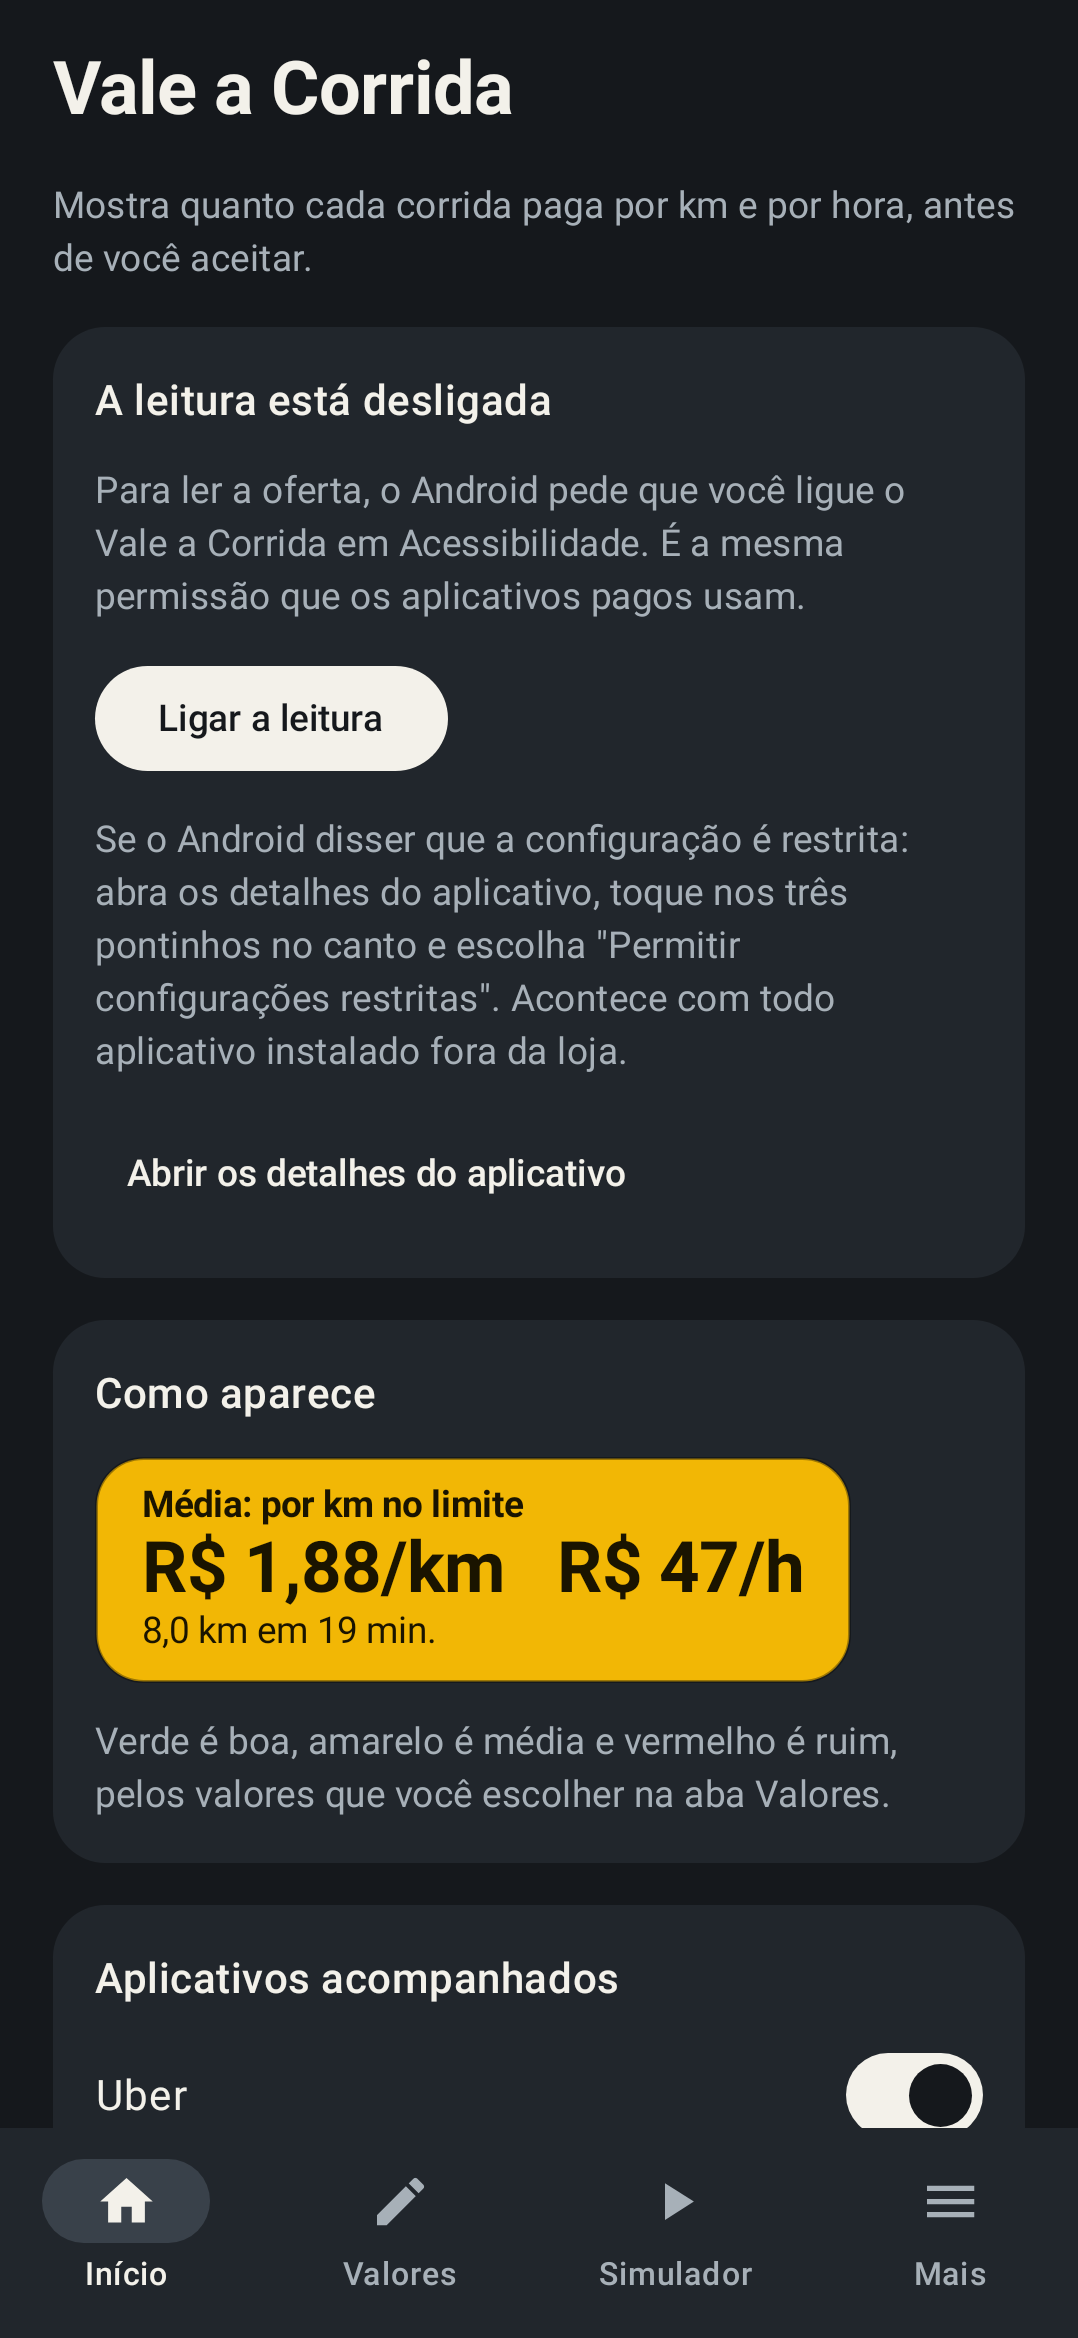
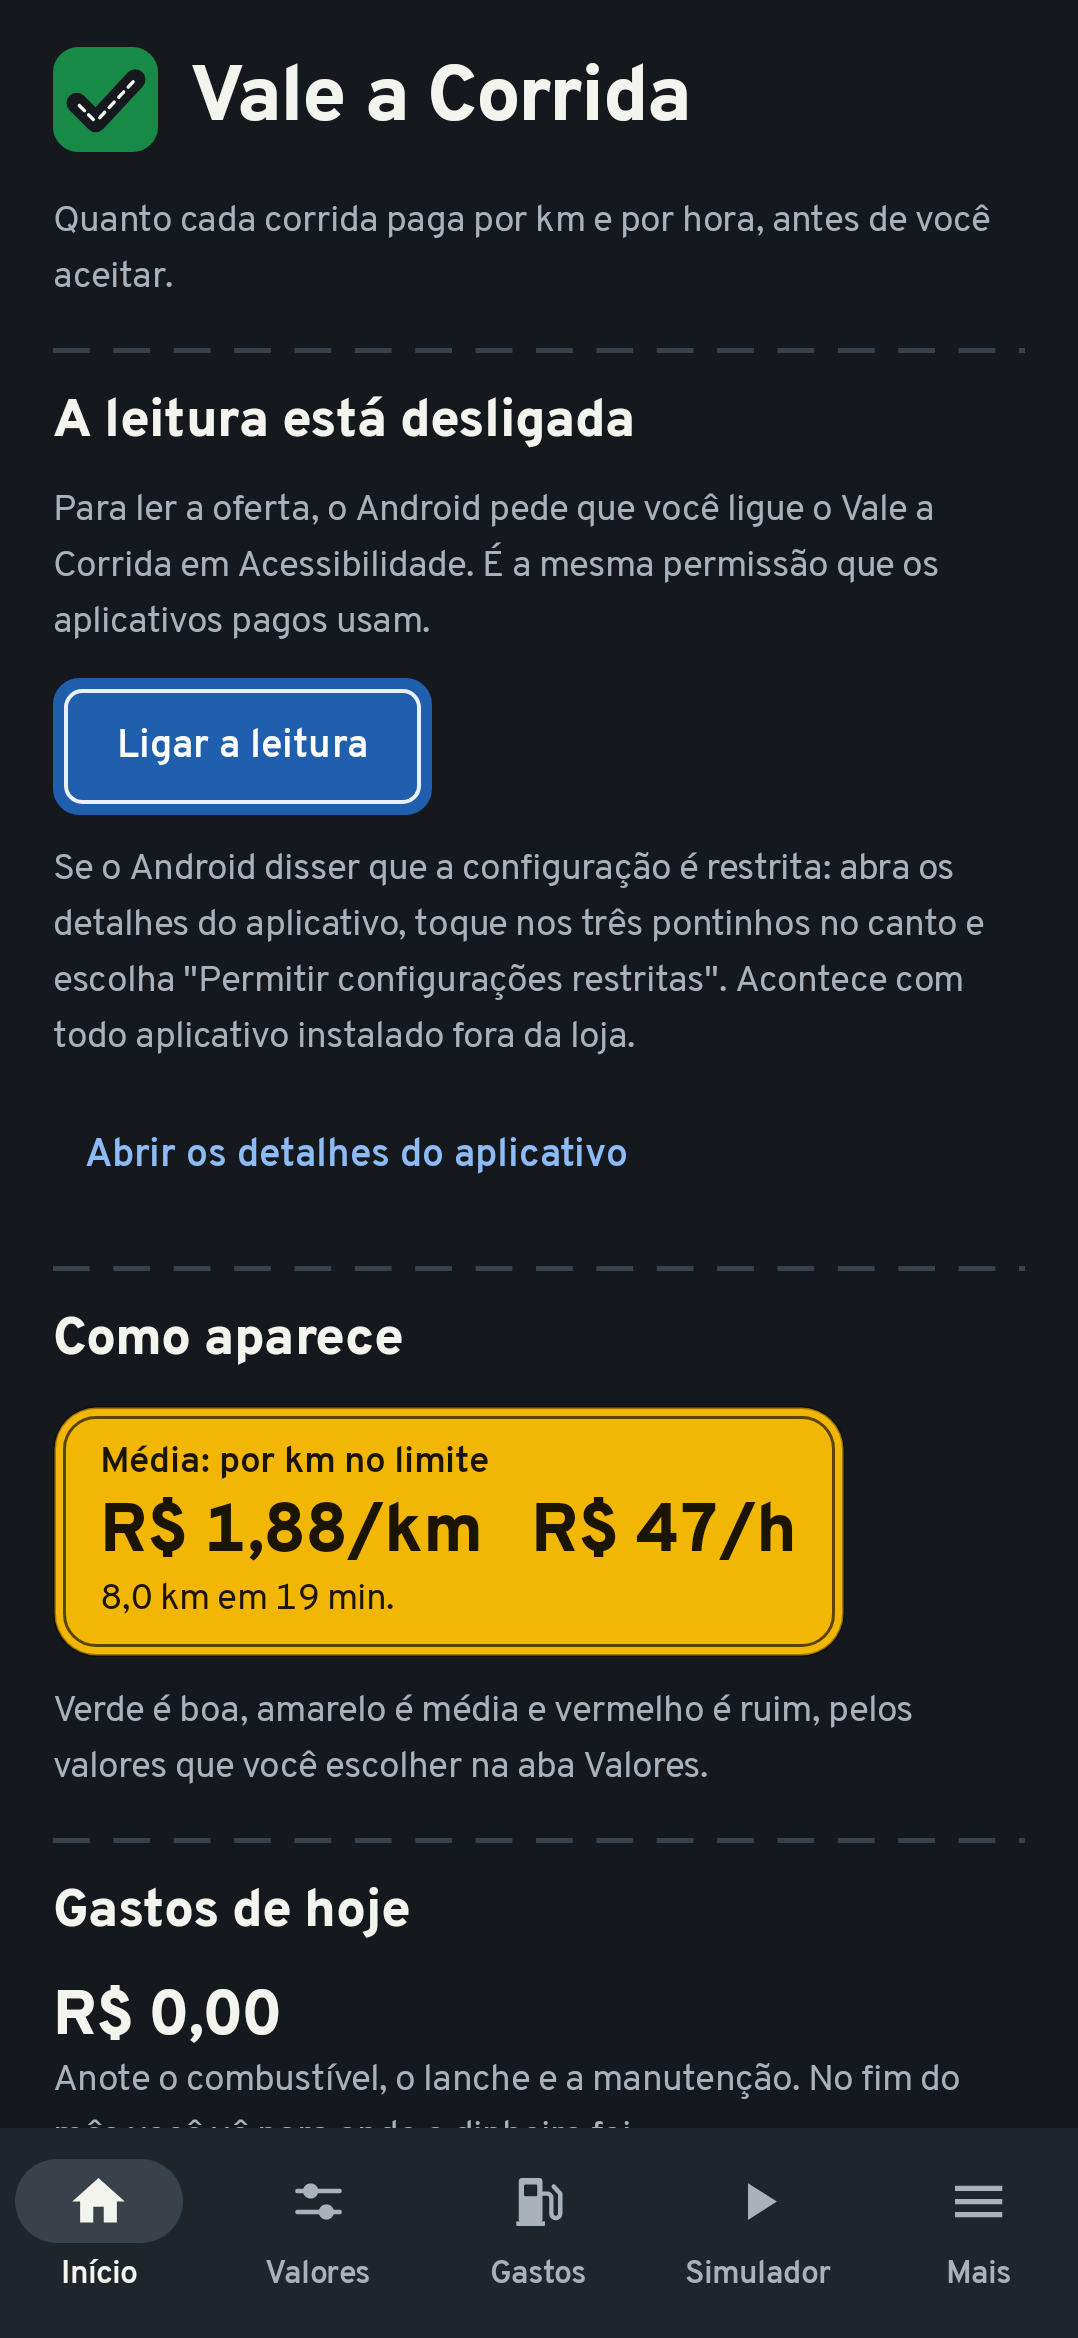
Versao 0.2.0: documentacao e telas

diff --git a/README.md b/README.md
@@ -1,3 +1,5 @@
+<img src="docs/icone.png" width="88" align="right" alt="Ícone do Vale a Corrida: uma estrada em forma de certo">
+
 # Vale a Corrida
 
 Aplicativo Android, de código aberto, para motoristas de aplicativo. Quando chega uma oferta de
@@ -5,22 +7,29 @@ corrida na Uber, na 99 ou no inDrive, ele lê a tela e mostra por cima, antes de
 **quanto a corrida paga por km e por hora**, em verde, amarelo ou vermelho, segundo os valores que
 você mesmo escolheu.
 
+Ele também guarda **os gastos do trabalho** (combustível, lanche, manutenção) e, no fim do mês,
+mostra para onde o dinheiro foi.
+
 Já existem aplicativos que fazem isso, pagos. Este é gratuito, e o código está aqui para qualquer
 pessoa conferir o que ele faz com a permissão que recebe.
 
 <p>
-  <img src="docs/telas/inicio.png" width="270" alt="Tela inicial, com o cartão de exemplo">
-  <img src="docs/telas/simulador.png" width="270" alt="Simulador com uma oferta de mentira">
+  <img src="docs/telas/inicio.png" width="200" alt="Tela inicial, com o cartão de exemplo">
+  <img src="docs/telas/simulador.png" width="200" alt="Simulador com uma oferta de mentira">
+  <img src="docs/telas/gastos.png" width="200" alt="Gastos do mês, com as placas para escolher o tipo de gasto">
+  <img src="docs/telas/relatorio.png" width="200" alt="Relatório do mês: quanto cada tipo de gasto pesou">
 </p>
 
 ## Estado do projeto
 
-Versão 0.1, a primeira. O que foi conferido e o que não foi:
+Versão 0.2. O que foi conferido e o que não foi:
 
-- **Conferido:** o leitor de ofertas e as contas, com 45 testes automáticos; as telas, desenhadas
-  em computador e olhadas uma a uma; o APK, que compila, sai assinado e sem permissão de internet.
-- **Ainda não conferido:** o aplicativo rodando num celular, e a leitura das ofertas de verdade
-  da Uber, da 99 e do inDrive. Os formatos de oferta dos testes foram escritos de memória.
+- **Conferido:** o leitor de ofertas, as contas e o relatório de gastos, com 69 testes
+  automáticos; as telas, desenhadas em computador e olhadas uma a uma; o APK, que compila, sai
+  assinado e sem permissão de internet.
+- **Ainda não conferido:** a leitura das ofertas de verdade da Uber, da 99 e do inDrive. A
+  versão 0.1 já foi instalada num celular, mas ainda não passou por uma corrida real. Os formatos
+  de oferta dos testes foram escritos de memória.
 
 Se você instalar e o cartão não aparecer, isso é esperado nesta fase, e é exatamente o aviso que
 o projeto precisa: veja [Como ajudar](#como-ajudar).
@@ -33,6 +42,10 @@ o projeto precisa: veja [Como ajudar](#como-ajudar).
 - Aceita limites: valor mínimo da corrida, distância máxima até o passageiro, nota mínima.
 - Se você informar o seu custo por km, mostra também quanto sobra.
 - Tem um simulador, para ver o cartão funcionando sem estar online.
+- Guarda os gastos do trabalho, por tipo: combustível, alimentação, manutenção, lavagem, pedágio
+  e vaga, aluguel ou parcela do carro, seguro e impostos, celular e internet.
+- Fecha o mês num relatório: o total, quanto cada tipo pesou, a média nos dias com gasto, o dia
+  mais caro e a comparação com o mês anterior. Dá para compartilhar como texto.
 
 O que ele **não** faz: não aceita nem recusa corridas, e não toca na tela por você.
 
@@ -42,6 +55,8 @@ O que ele **não** faz: não aceita nem recusa corridas, e não toca na tela por
   Nada sai do aparelho. Dá para conferir no `AndroidManifest.xml` e no APK.
 - Só lê a tela enquanto a Uber, a 99 ou o inDrive estão abertos, e só os que você deixar ligados.
 - Guardar leituras para diagnóstico é opcional, vem desligado e fica só no aparelho.
+- Os gastos anotados ficam num arquivo do próprio aparelho. Desinstalar o aplicativo apaga esse
+  arquivo: compartilhe o relatório do mês se quiser guardar.
 
 ## Instalar
 
@@ -57,6 +72,10 @@ tela de outro.
    escolha **Permitir configurações restritas**. Depois repita o passo 2.
 4. Na aba **Valores**, ponha os seus números. Na aba **Simulador**, confira se o cartão aparece.
 
+Se o Android barrar a instalação: no Brasil, a proteção do Google costuma recusar aplicativo que
+usa acessibilidade quando o arquivo vem do navegador ou de uma mensagem. Nesse caso, instale pelo
+computador, com o celular no cabo e a depuração USB ligada: `adb install vale-a-corrida-0.2.0.apk`.
+
 ## Antes de usar
 
 - As plataformas não gostam de aplicativos que leem as ofertas. A Uber já foi à Justiça contra um
@@ -68,8 +87,9 @@ tela de outro.
 ## Como funciona
 
 ```
-nucleo/   Kotlin puro: acha a oferta no texto da tela e faz as contas. Testado sem Android.
-app/      O aplicativo: serviço de acessibilidade, cartão por cima da tela e as telas de ajuste.
+nucleo/   Kotlin puro: acha a oferta no texto da tela, faz as contas e fecha o mês de gastos.
+          Testado sem Android.
+app/      O aplicativo: serviço de acessibilidade, cartão por cima da tela e as telas.
 ```
 
 1. O serviço de acessibilidade é avisado quando um aplicativo de corrida muda a tela.
@@ -105,17 +125,20 @@ Para quem programa, o passo a passo está em [CONTRIBUTING.md](CONTRIBUTING.md).
 
 - Conferir e ajustar o leitor com ofertas de verdade de cada aplicativo.
 - Histórico do dia: corridas vistas, aceitas e quanto renderam.
+- Anotar também os ganhos, para o relatório mostrar o lucro e o custo real por km.
 - Leitura de imagem com biblioteca livre, para o aplicativo poder entrar na F-Droid.
 - Arrastar o cartão para onde o motorista preferir.
 
 ## Licença
 
-[MIT](LICENSE).
+[MIT](LICENSE). A letra do aplicativo é a [Overpass](https://github.com/RedHatOfficial/Overpass),
+desenhada a partir das placas de estrada, sob a [licença OFL](docs/licencas/Overpass-OFL.txt).
 
 ---
 
 **In English:** Vale a Corrida ("is the ride worth it?") is an open-source Android app for
 ride-hailing drivers in Brazil. It reads the ride offer shown by Uber, 99 or inDrive (through an
 accessibility service, with on-device OCR as a fallback) and overlays the earnings per km and per
-hour, colour-coded against thresholds the driver sets. It has no internet permission, and it never
-accepts or declines rides on the driver's behalf.
+hour, colour-coded against thresholds the driver sets. It also keeps a log of work expenses (fuel, food, maintenance) with a
+monthly report. It has no internet permission, and it never accepts or declines rides on the
+driver's behalf.

diff --git a/AGENTS.md b/AGENTS.md
@@ -7,12 +7,14 @@ Leia o `README.md` antes de mexer.
 ## Mapa
 
 - `nucleo/`: Kotlin puro, sem Android. `LeitorDeOferta` acha a oferta no texto; `Avaliador` faz as
-  contas; `Linhas` junta os pedaços de texto em linhas. Testes em `nucleo/src/test`.
+  contas; `Linhas` junta os pedaços de texto em linhas. `Gastos` tem as categorias de gasto e o
+  relatório do mês (`Relatorios`); `Datas` escreve as datas. Testes em `nucleo/src/test`.
 - `app/`: o aplicativo.
   - `leitura/ServicoDeLeitura`: serviço de acessibilidade. Decide quando ler, por texto ou por imagem.
   - `leitura/LeitorDeTela`: texto da árvore de acessibilidade. `leitura/LeitorDeImagem`: texto da captura (ML Kit).
   - `leitura/Sobreposicao` e `leitura/CartaoView`: o cartão por cima da tela.
   - `ui/`: as telas, em Compose. `Preferencias`: o que a pessoa escolheu. `Diagnostico`: leituras guardadas.
+  - `LivroDeGastos`: os gastos anotados, num arquivo do aparelho. `ui/TelaGastos`: anotar e ver o relatório.
 
 ## Comandos
 
@@ -36,9 +38,20 @@ Mudou tela ou cartão: rode o `recordRoborazziDebug` e **olhe as imagens** antes
    `LeitorDeOfertaTest`, com as linhas exatamente como vieram, e só depois o leitor é ajustado.
 6. Código, comentários e textos em português. Comentário explica o porquê, não repete o código.
 
+## Visual
+
+- A rua de noite: asfalto, faixa e placas. As cores e a letra estão em `ui/Tema.kt`.
+- **Verde, amarelo e vermelho são só do veredito da corrida.** Em nenhum outro lugar.
+- Os blocos de uma tela não são caixas: ficam no fundo, separados pela faixa tracejada (`Faixa`).
+- A ação principal e os avisos são placas: azul das placas de serviço, com filete branco por
+  dentro (`BotaoPrincipal`, `PlacaDeAviso`). Cada tipo de gasto tem a sua placa (`PlacaDeServico`),
+  com desenho em `ui/Pictogramas.kt`.
+- A letra é a Overpass (`res/font`), feita a partir das placas de estrada. Licença em `docs/licencas`.
+- O ícone sai de `ferramentas/icone/gerar.cjs`. Não edite os vetores à mão.
+
 ## O que ainda não foi conferido
 
-Até a versão 0.1 ninguém rodou o aplicativo num celular, nem leu uma oferta de verdade da Uber ou
+A versão 0.1 foi instalada num celular, mas até a 0.2 ninguém leu uma oferta de verdade da Uber ou
 da 99. Os formatos nos testes foram escritos de memória. Não trate esses formatos como fato:
 quando chegar uma leitura real, ela vale mais que o teste antigo.
 
@@ -49,3 +62,5 @@ quando chegar uma leitura real, ela vale mais que o teste antigo.
 - `takeScreenshot` só existe do Android 11 em diante e não pode ser chamado mais de três vezes por segundo.
 - O simulador (`ui/TelaSimulador`) escreve os controles como "Minutos de viagem: 14", nunca "14 min":
   o leitor tomaria o controle por um trecho da corrida.
+- Os gastos são gravados com troca única de arquivo (`LivroDeGastos.gravar`). Não troque por
+  escrever direto no arquivo: celular que desliga no meio perderia o mês de alguém.

diff --git a/CONTRIBUTING.md b/CONTRIBUTING.md
@@ -16,10 +16,10 @@ Apague endereços e nomes antes de colar. O que interessa é o formato das linha
 
 O projeto tem duas partes:
 
-- `nucleo/`: Kotlin puro, sem Android. Acha a oferta no texto (`LeitorDeOferta`) e faz as contas
-  (`Avaliador`). É onde quase todo conserto acontece.
+- `nucleo/`: Kotlin puro, sem Android. Acha a oferta no texto (`LeitorDeOferta`), faz as contas
+  (`Avaliador`) e fecha o mês de gastos (`Relatorios`). É onde quase todo conserto acontece.
 - `app/`: o aplicativo Android. O serviço de acessibilidade (`leitura/ServicoDeLeitura`) recolhe o
-  texto da tela, por acessibilidade ou pela imagem, e mostra o cartão.
+  texto da tela, por acessibilidade ou pela imagem, e mostra o cartão. As telas ficam em `ui/`.
 
 Para consertar uma oferta não reconhecida:
 
